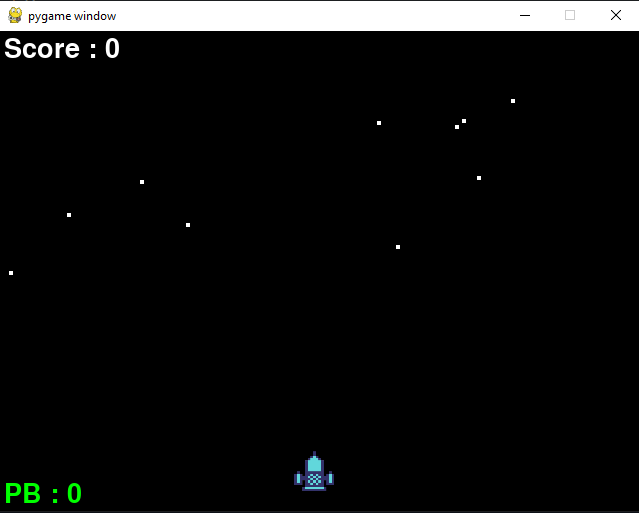
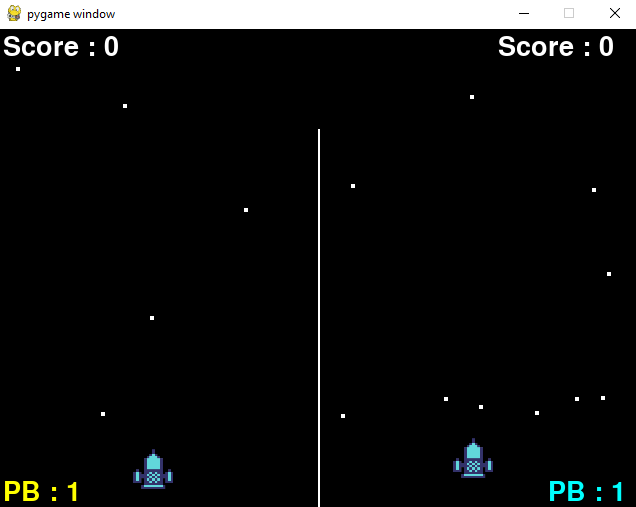
making the game for 2 players + fixing some bugs

diff --git a/Game/rocket.py b/Game/rocket.py
@@ -23,9 +23,12 @@ class Rocket:
         font = pygame.font.SysFont('freesansbold.ttc', 40)
         scoreText = font.render(f'Score : {self.score} ', True, (255,255,255))
         screen.blit(scoreText, (c1,5))
-        PBText = font.render(f'PB : {self.PB} ', True, (0,255,0))
-        screen.blit(PBText, (c1,450))
-
+        if self.player == 1:
+            PBText = font.render(f'PB : {self.PB} ', True, (255,255,0))
+            screen.blit(PBText, (c1,450))
+        elif self.player == 2:
+            PBText = font.render(f'PB : {self.PB} ', True, (0,255,255))
+            screen.blit(PBText, (c1+50,450))
     # Delta-time is the amount of time that passed since the last frame
 
     def update(self,screen,deltatime,velocity=100):
